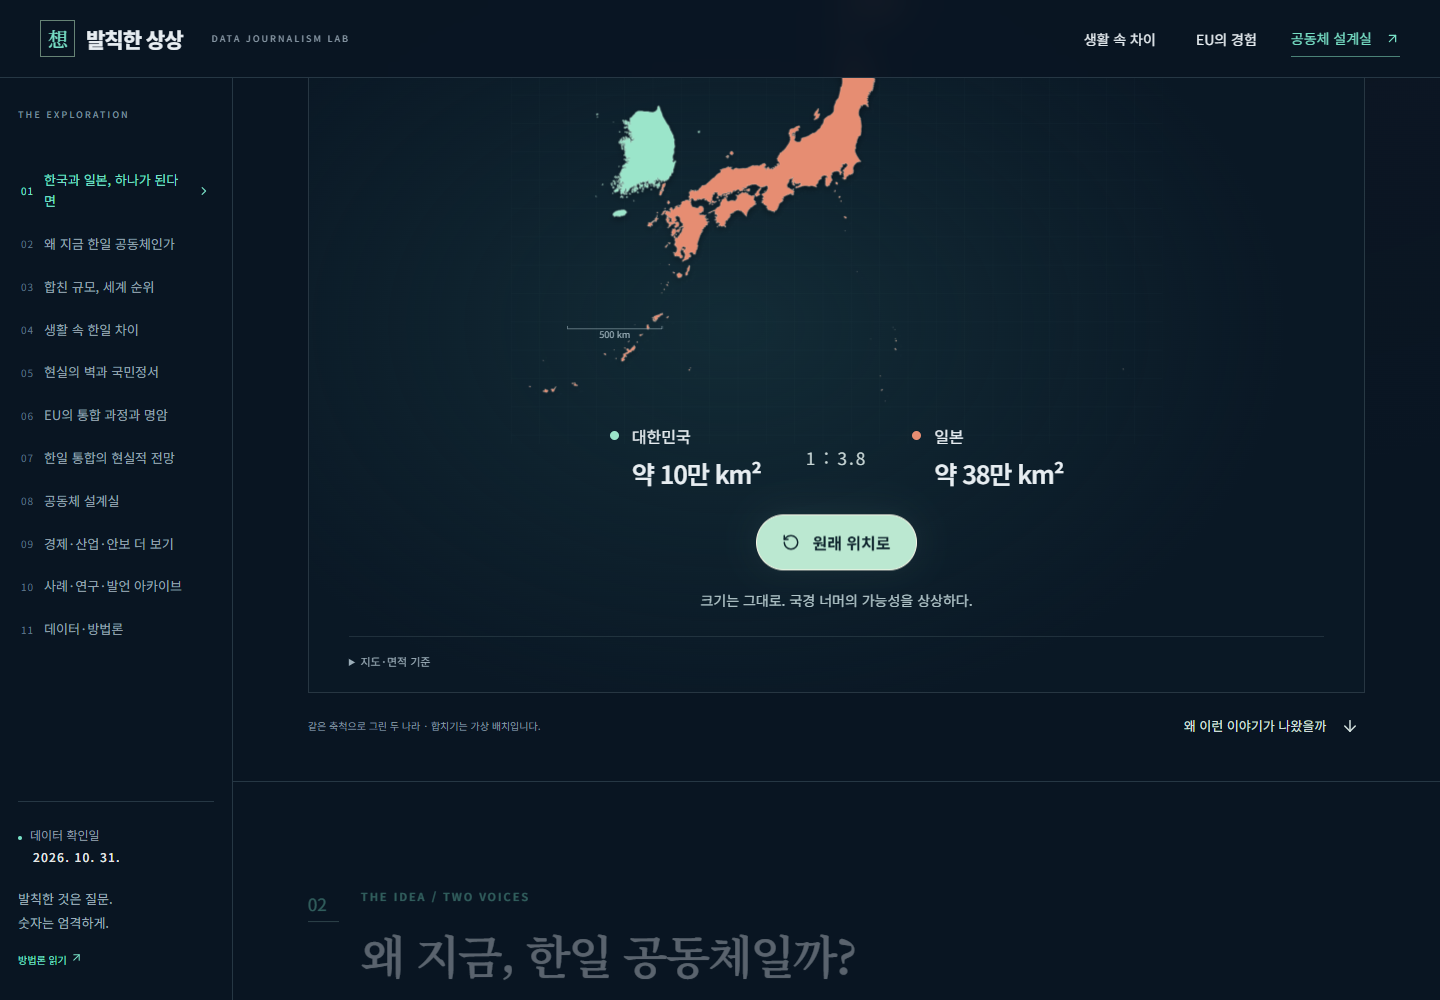
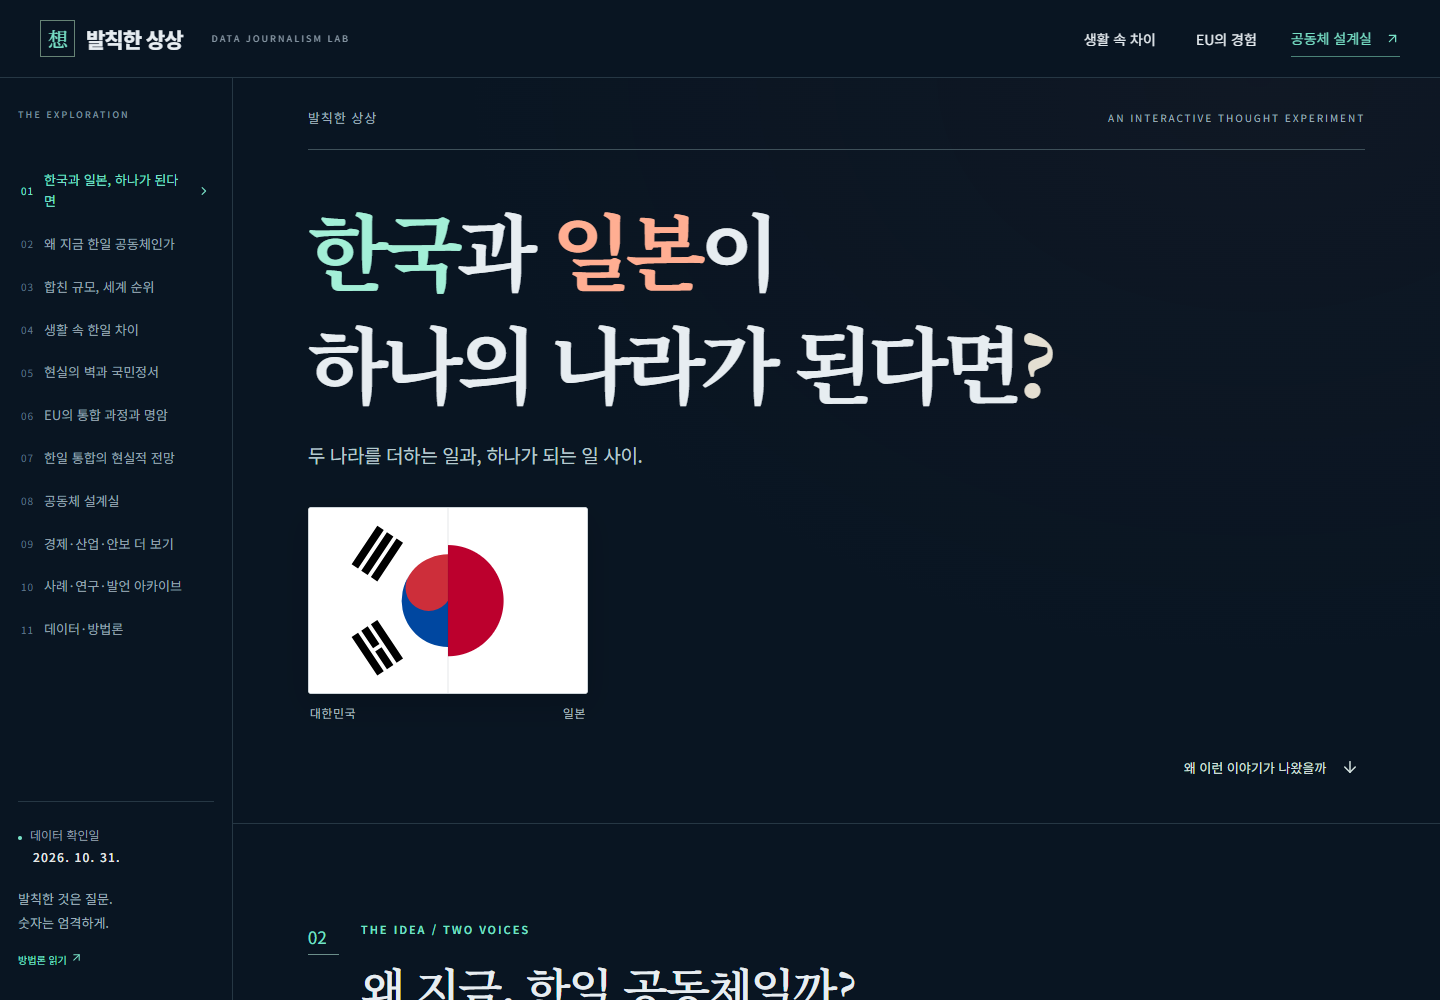
Replace-large-map-with-compact-half-flags

diff --git a/src/components/Story.tsx b/src/components/Story.tsx
@@ -1,12 +1,12 @@
 import manufacturing from '../data/manufacturing.json';
-import LandUnion from './LandUnion';
+import FlagUnion from './FlagUnion';
 import{useState,useEffect,useRef}from'react';
 import{ArrowDown,ArrowUpRight,Plus,Minus,Check,ChevronRight,ArrowRight}from'lucide-react';
 import economy from'../data/economy.json';
 import{links}from'../data/content';
 const format=(n:number,d=1)=>new Intl.NumberFormat('ko-KR',{maximumFractionDigits:d}).format(n);
 export function NumberTicker({value,decimals=0}:{value:number;decimals?:number}){const node=useRef<HTMLSpanElement>(null),[display,setDisplay]=useState(value);useEffect(()=>{setDisplay(value);let frame=0;const observer=new IntersectionObserver(([entry])=>{if(!entry.isIntersecting)return;observer.disconnect();if(matchMedia('(prefers-reduced-motion: reduce)').matches)return;const start=performance.now();const tick=(now:number)=>{const progress=Math.min(1,(now-start)/1100);setDisplay(value*(1-Math.pow(1-progress,3)));if(progress<1)frame=requestAnimationFrame(tick)};frame=requestAnimationFrame(tick)},{threshold:.4});if(node.current)observer.observe(node.current);return()=>{observer.disconnect();cancelAnimationFrame(frame)}},[value]);return <span ref={node} aria-label={format(value,decimals)}><span aria-hidden="true">{format(display,decimals)}</span></span>}
-export function StoryHero({next}:{next:()=>void}){return <section id="chapter-0" className="chapter story-hero"><div className="story-eyeline"><span>발칙한 상상</span><span>AN INTERACTIVE THOUGHT EXPERIMENT</span></div><h1><span className="title-k">한국</span>과 <span className="title-j">일본</span>이<br/>하나의 나라가 된다면<span className="question-mark">?</span></h1><p className="hero-deck">두 나라를 더하는 일과, 하나가 되는 일 사이.</p><LandUnion/><div className="hero-bottom"><span>같은 축척으로 그린 두 나라 · 합치기는 가상 배치입니다.</span><button onClick={next}>왜 이런 이야기가 나왔을까 <ArrowDown size={18}/></button></div></section>}
+export function StoryHero({next}:{next:()=>void}){return <section id="chapter-0" className="chapter story-hero"><div className="story-eyeline"><span>발칙한 상상</span><span>AN INTERACTIVE THOUGHT EXPERIMENT</span></div><h1><span className="title-k">한국</span>과 <span className="title-j">일본</span>이<br/>하나의 나라가 된다면<span className="question-mark">?</span></h1><p className="hero-deck">두 나라를 더하는 일과, 하나가 되는 일 사이.</p><FlagUnion/><div className="hero-bottom"><button onClick={next}>왜 이런 이야기가 나왔을까 <ArrowDown size={18}/></button></div></section>}
 export function WhyNow(){return <div className="why-now"><p className="story-lead">정치인은 안보를, 기업인은 시장을 말한다.<br/><strong>같은 ‘연대’, 다른 출발점.</strong></p><div className="speaker-grid"><article className="speaker speaker-ishiba"><div className="speaker-top"><span>01 / 안보와 국제적 영향력</span><span>2026. 10. 29.</span></div><div className="speaker-monogram" aria-hidden="true">石</div><h3>이시바 시게루</h3><p className="speaker-role">당시 전 일본 총리 · 도쿄 국제 한반도 포럼</p><blockquote>“한일 연계 시 … GDP는 6조 달러”</blockquote><p>북핵 위협과 국제질서 변화 속에서, 두 나라의 무게를 함께 키우자는 구상.</p><a href={links.ishiba} target="_blank" rel="noreferrer">발언 보도 <ArrowUpRight size={16}/></a></article><article className="speaker speaker-chey"><div className="speaker-top"><span>02 / 산업과 시장의 규모</span><span>2025. 05. 30.</span></div><div className="speaker-monogram" aria-hidden="true">崔</div><h3>최태원</h3><p className="speaker-role">당시 SK·대한상의 회장 · 닛케이 인터뷰 보도</p><blockquote>“한일 반도체 기업간 생태계를 통합하고 싶다”</blockquote><p>에너지 공동 구매부터 반도체 협력까지, 비용과 규모의 문제를 함께 풀자는 제안.</p><a href="https://www.newstomato.com/ReadNews.aspx?no=1263802" target="_blank" rel="noreferrer">발언 보도 <ArrowUpRight size={16}/></a></article></div><div className="reason-chips"><span>시장과 공급망</span><Plus size={15}/><span>고령화와 저성장</span><Plus size={15}/><span>지정학적 불확실성</span></div><details className="story-fold"><summary>발언의 맥락과 해석 범위</summary><p>두 발언은 서로 다른 시점·맥락의 협력 구상입니다. 한일의 연방국가 수립 합의나 통합 성장효과의 검증 결과가 아닙니다. 보도된 한국어 인용이며 원어 발언록은 확보하지 못했습니다.</p><a href={links.summit} target="_blank" rel="noreferrer">양국 정상회담의 공식 협력 의제 <ArrowUpRight size={15}/></a></details><div className="story-turn">그렇다면, 숫자를 정말 더해보면?</div></div>}
 export function ScaleOverview({gdp,year,onSource}:{gdp:number;year:number;onSource:(s:'imf'|'un'|'sipri')=>void}){return <><p className="story-lead">경제는 세계 <strong>3위 규모.</strong><br/>인구와 군사비의 순위는 다르다.</p><div className="power-grid">{[{id:'imf' as const,label:'명목 GDP',rank:3,value:gdp/1000,decimals:2,unit:'조 달러',date:`${year} · IMF`,detail:'한국 + 일본의 단순 합계',pair:['한국 1.88조 $','일본 4.21조 $']},{id:'un' as const,label:'인구',rank:8,value:17547.0628,decimals:0,unit:'만 명',date:'2024 · UN 중위 전망',detail:'양국을 하나의 경제권으로 비교',pair:['한국 5,172만 명','일본 1억 2,375만 명']},{id:'sipri' as const,label:'군사비',rank:5,value:1100,decimals:0,unit:'억 달러',date:'2025 · SIPRI',detail:'군사비 순위 ≠ 실제 방위력',pair:['한국 478억 $','일본 622억 $']}].map(x=><article className={'power-card power-'+x.id} key={x.id}><div className="power-label"><span>{x.label}</span><small>{x.date}</small></div><div className="power-rank"><span>세계</span><strong><NumberTicker value={x.rank}/></strong><b>위</b></div><div className="power-value"><NumberTicker value={x.value} decimals={x.decimals}/><span>{x.unit}</span></div><div className="power-pair">{x.id==='imf'?<><span>한국 {format(economy.macro.find(m=>m.year===year)!.rows.find(r=>r.id==='KOR')!.value/1000,2)}조 $</span><span>일본 {format(economy.macro.find(m=>m.year===year)!.rows.find(r=>r.id==='JPN')!.value/1000,2)}조 $</span></>:x.pair.map(t=><span key={t}>{t}</span>)}</div><p>{x.detail}</p><button className="source-link" onClick={()=>onSource(x.id)}>출처·계산 방법 <ArrowUpRight size={14}/></button></article>)}<article className="power-card power-manufacturing"><div className="power-label"><span>제조업 부가가치</span><small>2024 · World Bank·BEA</small></div><div className="power-rank"><span>세계</span><strong><NumberTicker value={manufacturing.rank}/></strong><b>위</b></div><div className="power-value"><NumberTicker value={manufacturing.total/1e12} decimals={2}/><span>조 달러</span></div><div className="power-pair"><span>한국 {format(manufacturing.korea/1e8,0)}억 $</span><span>일본 {format(manufacturing.japan/1e8,0)}억 $</span></div><p>제조업 부가가치 단순 합계의 가상 순위</p><details className="manufacturing-source"><summary>출처·계산 방법</summary><p>2024년 현행 달러 기준. World Bank 국가별 자료에 미국 BEA/FRED 자료를 보완했습니다. 미국은 분기 연율 4개를 평균해 연간 규모로 환산했습니다. 확보된 {manufacturing.coverage}개 경제체에서 한국·일본을 빼고 합계를 넣어 산출한 가상 순위입니다. 지역 합계와 결측 경제체는 제외했습니다. 산업 분류·통계 개정 시점은 다를 수 있습니다. GDP에 포함된 값으로 GDP에 다시 더하지 않습니다.</p><a href={manufacturing.url} target="_blank" rel="noreferrer">World Bank 공식 통계 ↗</a><br/><a href={manufacturing.usUrl} target="_blank" rel="noreferrer">미국 BEA · FRED 원자료 ↗</a><div className="manufacturing-ranking">{manufacturing.ranking.slice(0,5).map((r,i)=><div key={r.id}><span>{i+1}위 {r.id==='CHN'?'중국':r.id==='USA'?'미국':r.id==='DEU'?'독일':r.id==='UNION'?'한국+일본':r.name}</span><b>{format(r.value/1e12,2)}조 $</b></div>)}</div></details></article></div><p className="scale-rule">단순 합계입니다. 경제공동체가 곧 한 나라가 되는 것은 아닙니다.</p></>}
 export function RealityIntro(){return <><p className="story-lead">숫자는 더해진다.<br/><strong>역사와 주권은 그렇게 더해지지 않는다.</strong></p><div className="obstacle-grid">{[['역사와 신뢰','과거사·피해자 권리·영토 문제'],['누가 결정할까','인구 비례와 국가 동등성의 충돌'],['누가 부담할까','산업 조정·복지·재정의 비용']].map(([title,desc],i)=><article key={title}><span>0{i+1}</span><h3>{title}</h3><p>{desc}</p></article>)}</div><div className="sentiment-hook"><span>상대국에 좋은 인상 · 2026 EAI·IHJ</span><div><p><small>한국 → 일본</small><strong className="k-text"><NumberTicker value={54.3} decimals={1}/><b>%</b></strong></p><span className="sentiment-vs">↔</span><p><small>일본 → 한국</small><strong className="j-text"><NumberTicker value={35.3} decimals={1}/><b>%</b></strong></p></div><h3>가까워졌지만, 같은 마음은 아니다.</h3></div></>}

diff --git a/tests/ui/narrative.spec.ts b/tests/ui/narrative.spec.ts
@@ -4,7 +4,7 @@ test('narrative, everyday comparisons, currency experiment and existing tools',a
  await expect(page.getByRole('heading',{level:1})).toContainText('한국과 일본이');
  await expect(page.locator('main>section')).toHaveCount(11);
  await expect(page.locator('body')).toHaveJSProperty('scrollWidth',await page.evaluate(()=>innerWidth));
- await page.getByRole('button',{name:'두 나라 함께 놓아보기'}).click();await expect(page.locator('.land-union')).toHaveClass(/is-joined/);await expect(page.locator('.land-ratio')).toHaveText('1 : 3.8');await expect(page.locator('.land-shape')).toHaveCount(2);
+ await expect(page.locator('.flag-union svg')).toBeVisible();await expect(page.locator('.flag-union image')).toHaveCount(2);await expect(page.locator('.land-union')).toHaveCount(0);
  await page.screenshot({path:`docs/${info.project.name}-hero.png`,fullPage:false});
  await expect(page.locator('#chapter-1')).toContainText('이시바 시게루');await expect(page.locator('#chapter-1')).toContainText('최태원');
  await expect(page.locator('.power-imf .power-rank')).toContainText('3');await expect(page.locator('.power-un .power-rank')).toContainText('8');await expect(page.locator('.power-sipri .power-rank')).toContainText('5');

diff --git a/src/components/FlagUnion.tsx b/src/components/FlagUnion.tsx
@@ -1,0 +1,3 @@
+import './flag-union.css';
+
+export default function FlagUnion(){return <figure className="flag-union"><svg viewBox="0 0 360 240" role="img" aria-label="왼쪽은 태극기, 오른쪽은 일장기를 절반씩 맞댄 그래픽"><defs><clipPath id="flag-korea-half"><rect width="180" height="240"/></clipPath><clipPath id="flag-japan-half"><rect x="180" width="180" height="240"/></clipPath></defs><rect width="360" height="240" fill="#fff"/><image href="./images/kr.svg" width="360" height="240" preserveAspectRatio="xMidYMid meet" clipPath="url(#flag-korea-half)"/><image href="./images/jp.svg" width="360" height="240" preserveAspectRatio="xMidYMid meet" clipPath="url(#flag-japan-half)"/><path d="M180 0V240" stroke="#0a1624" strokeOpacity=".13" strokeWidth="1"/></svg><figcaption><span>대한민국</span><span>일본</span></figcaption></figure>}

diff --git a/src/components/flag-union.css b/src/components/flag-union.css
@@ -1,0 +1,1 @@
+.flag-union{width:280px;max-width:70%;margin:30px 0 26px}.flag-union svg{display:block;width:100%;height:auto;border:1px solid #ced5d9;border-radius:3px;box-shadow:0 12px 32px #00000026;background:white}.flag-union figcaption{display:flex;justify-content:space-between;margin-top:10px;padding:0 2px;color:#a5b9be;font-size:12px;letter-spacing:.5px}.story-hero .hero-bottom{padding-top:10px}.story-hero .hero-bottom>button{margin-left:auto}@media(max-width:640px){.flag-union{width:210px;margin:24px 0 22px}.flag-union figcaption{font-size:11px}.story-hero .hero-bottom{padding-top:2px}}
